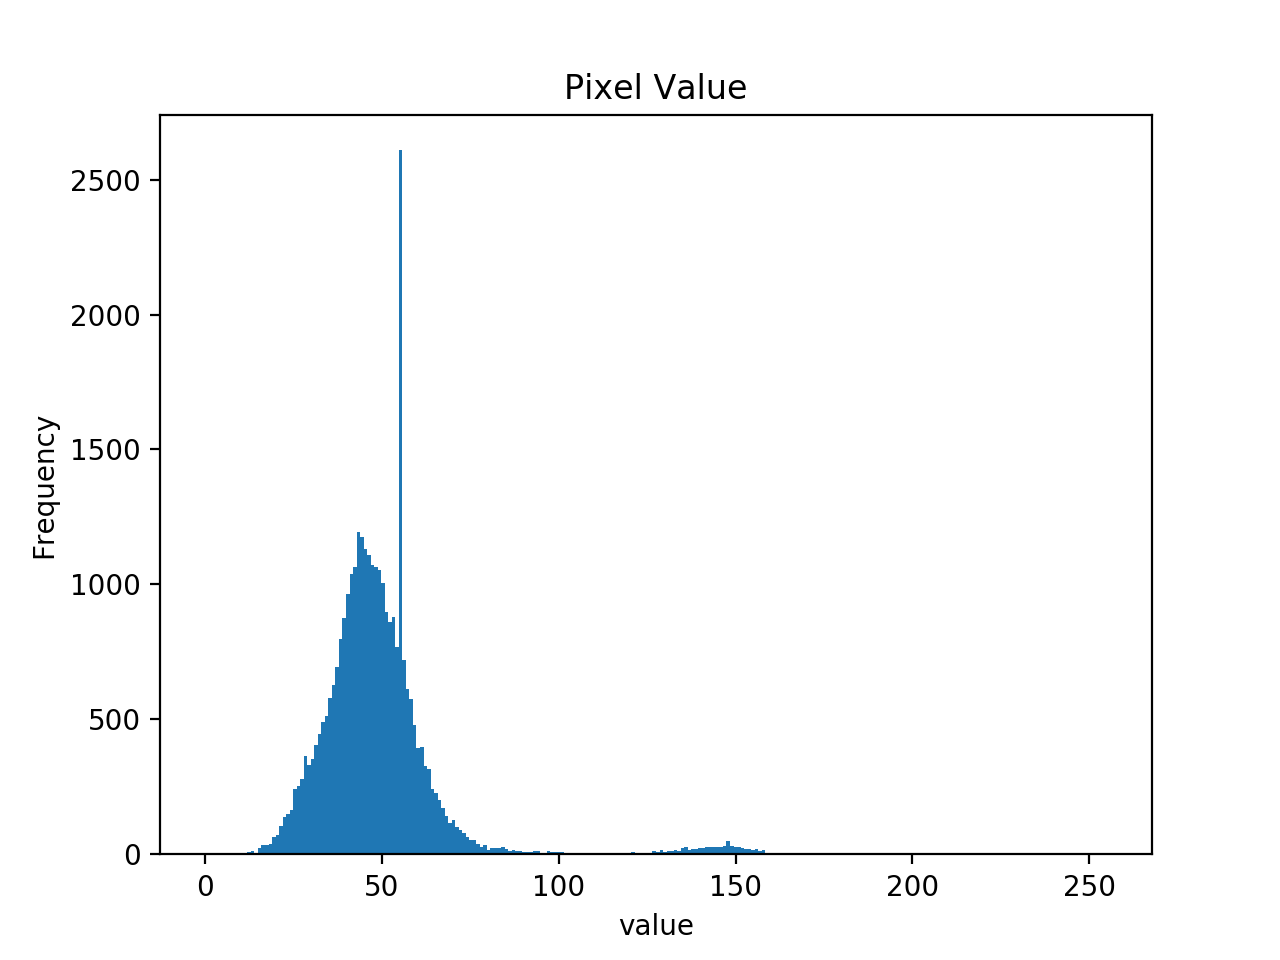
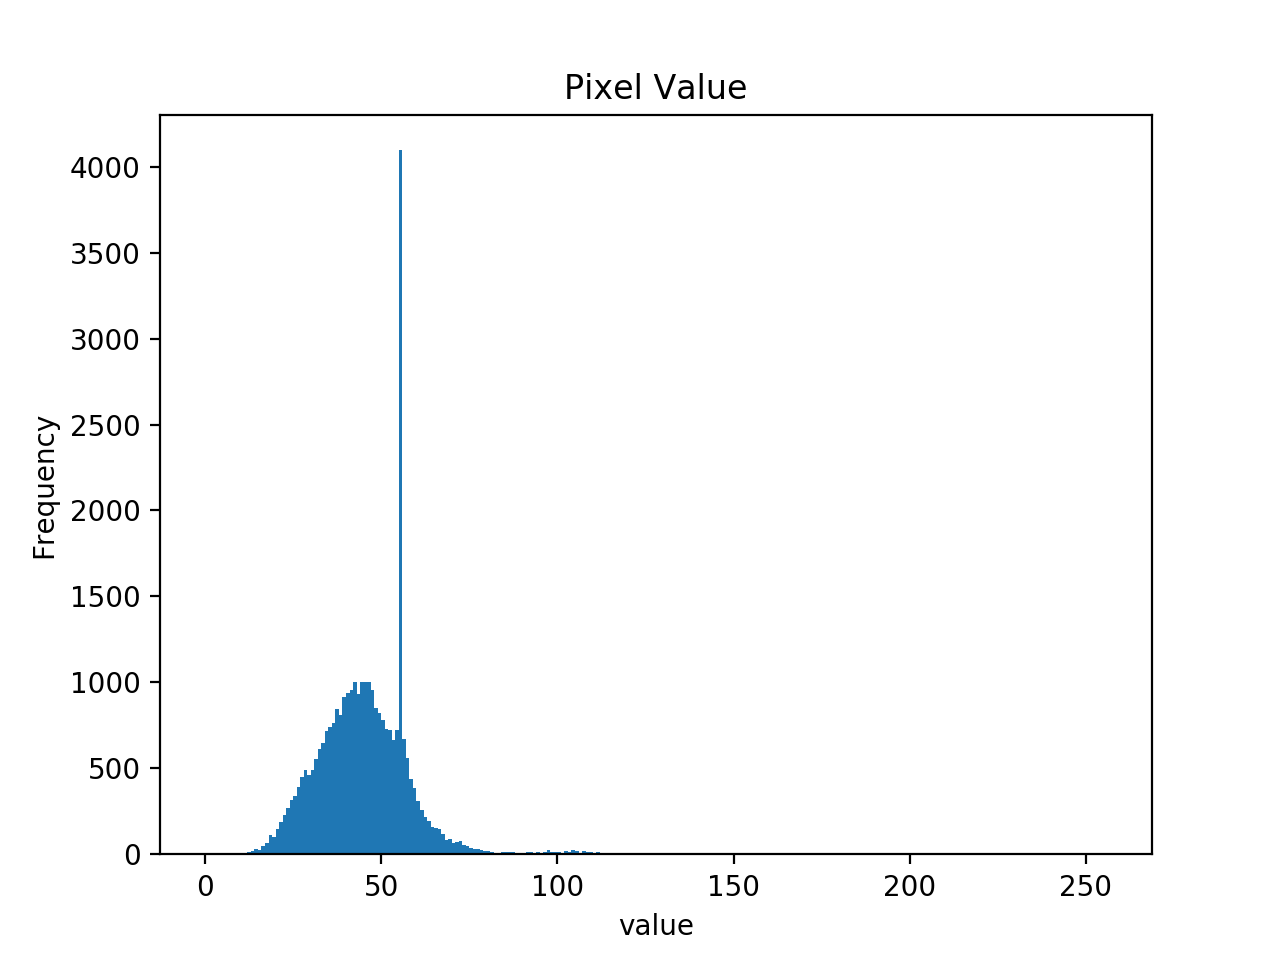
changes to the article description

diff --git a/Project/Report/chapters/implementation/basic_processing.tex b/Project/Report/chapters/implementation/basic_processing.tex
@@ -1,6 +1,6 @@
 \section{Basic Methods}
 \label{BasicM}
-In order to get some basic understanding of the methods commonly used for iris classification the work presented in an article is implemented. The work implemented is the work of \cite{Khan2017a} described in \citep{Khan2017a}. In the work visible light images of the iris obtained by smartphones are processed and used to train different classifiers. The processing consists of a sequence of steps. The steps included are
+In order to get some basic understanding of the methods commonly used for iris classification the work presented in an article is implemented. The work implemented is the work of \cite{Khan2017a} described in \citep{Khan2017a}.\todo{make sure references read right} In the work \gls{vl} images of the iris obtained by smartphones are processed and used to train different classifiers. The processing consists of a sequence of steps. The steps included are
 
 \begin{itemize}
 \item Iris Detection
@@ -11,7 +11,7 @@ In order to get some basic understanding of the methods commonly used for iris c
 \item Feature Extraction
 \item Training and Classification
 \end{itemize}
-\autoref{fig:ExWars} shows an example of an image from the database. Before the first step some simple preprocessing was done. The red channel is preserved and the other two other colour channels are neglected. This is done because this simulates the use of NIR light. The result is a greyscale image based on the red channel. In the following sections the implementation of each of the steps will be elaborated. 
+\autoref{fig:ExWars} shows an example of an image from the database. Before the first step some simple preprocessing was done. The red channel is preserved and the other two other colour channels are neglected. This is done because this simulates the use of \gls{nir} light. The result is a greyscale image based on the red channel. In the following sections the implementation of each of the steps will be elaborated. 
 
 \begin{figure}[h]
 \centering
@@ -66,8 +66,9 @@ Though the article uses several well known methods that are commonly used in pro
 Because the information about the exact approach used in the article is inadequate, an adaptive algorithm was created. The algorithm implemented identifies a threshold value based on the histogram. This is done by first identifying the highest and lowest bin-value, which has a frequency of more than a specified "recognition value", which was set to 10 in this project. The recognition value is introduced to make sure outliers are not defining for the threshold. Afterwards the threshold is calculated by the formula in \autoref{eq:pix_threshold}, where "Fraction" is a parameter set manually defining how large a part of the identified pixel value range has to me thresholded. During the processing in this project "Fraction" was set to be equal $0.1$. 
 
 \begin{equation}\label{eq:pix_threshold}
-	\text{Threshold}=(\text({owVal})+\text{Fraction}\cdot\text{higVal-lowVal}
+	\text{Threshold}=\text{Low~Value}+\text{Fraction}\cdot(\text{High~Value}-\text{Low~Value})
 \end{equation}
+
 
 After the threshold has been found it is applied to all pixels in the image. The pixels lower than the threshold are eliminated and have to be reconstructed from neighbouring pixels. Also here the article provides very limited information about the algorithm applied. Therefore an algorithm was implemented, which restores pixels from non-occluded neighbour regions. A part of the algorithm identifies the pixels with values lower than the threshold and saves the pixel coordinates of the pixels. The saved pixels are  reconstructed iteratively from neighbouring pixels following the 4-connectivity principle. The pixels are reconstructed when there are at least 2 neighbour pixels they can be reconstructed from. They are only reconstructed from pixels above the threshold, this can be pixels that initially were above the threshold, or it can be pixels that have already been reconstructed. The pixels are reconstructed by assigning the average of the neighbours with values above the threshold as the new pixel value. Once all thresholded pixels have been reconstructed the reconstructed image is returned.
 
@@ -78,34 +79,64 @@ Because the eliminated pixels are reconstructed only from pixels with a value hi
 \caption{The histogram of the image after reconstruction of pixels.}
 \label{fig:histSpill}
 \end{figure}
-As can be seen there is a peak as expected, however, there seem to be a "spill over" across the threshold to the lower values. By closer examination of the code it was discovered that this was caused due to a programming mistake. The mistake was that the values used for reconstruction were obtained from the original image and not from the reconstructed image. Once this mistake was corrected the histogram was as expected as shown in \autoref{fig:histFine}. 
+As can be seen there is a small peak as expected, however, there seem to be a "spill over" across the threshold to the lower values. By closer examination of the code it was discovered that this was caused due to a programming mistake. The mistake was that the values used for reconstruction were obtained from the original image and not from the reconstructed image. Once this mistake was corrected the histogram was as expected as shown in \autoref{fig:histFine}. 
 \begin{figure}[h]
 \centering
 \includegraphics[width=0.7\textwidth]{hist_nicespacing.png}
-\caption{The histogram of the image after applying the noise corrected remover function.}
+\caption{The histogram of the image after applying the corrected noise remover function.}
 \label{fig:histFine}
 \end{figure}
-In relation to the reconstruction of pixels it should be noted that it could have been done with 8-connectivity, and the iterative process could be split up so more steps, such that pixels are always constructed from as many neighbours as possible. This may give a better reconstruction, however, this has not been investigated. 
-\subsection{Histogram Equalisation}
-The histogram Equalisation
-
-\begin{equation}\label{eq:hist_stretch}
-	\text{New~pixelValue} (\text{pixelValue-lowVal})\cdot\frac{255}{\text{higVal-lowVal}}
-\end{equation}
-
-
+In relation to the reconstruction of pixels it should be noted that it could have been done with 8-connectivity, and the iterative process could be split up to more steps, such that pixels are always constructed from as many neighbours as possible. This may give a better reconstruction, however, this has not been investigated. 
+Furthermore, small tests showed that the adaptive threshold is difficult to define in an optimal way. If the threshold is too low the eyelash might be reconstructed from edge pixels of the eyelash creating just a lighter eyelash, which is still darker than the iris in the background. If the threshold is higher, it might eliminate the eyelashes, but also be destructive to darker parts of the iris. Maybe this could also be solved if the reconstruction happened based on the neighbourhood and not just the most adjacent neighbour pixels.
+ 
+During implementation the histograms were frequently inspected in order to ensure the results were as expected. \autoref{fig:HistEli} show a histogram with some eliminated pixel values. It turns out that the function used for generating histograms in python by default takes the range of the pixel values and splits that into as many bins as specified. As a result some of the bins cover a range of values that is entirely between two integer values and thus do not count any instances of pixel values as they are always integers between 0 and 225. This was solved by passing a specific range (0:256) as an argument and then the histogram was as described in \autoref{fig:histFine}.   
 \begin{figure}[h]
 \centering
-\includegraphics[width=0.7\textwidth]{hist_equal.png}
-\caption{The histogram of the image after applying the equalise histogram function.}
-\label{fig:histEq}
+\includegraphics[width=0.7\textwidth]{hist_troublespacing.png}
+\caption{The histogram of the reconstructed image with eliminated values.}
+\label{fig:HistEli}
+\end{figure} 
+
+\subsection{Histogram Equalisation}
+The histogram equalisation is applied to increase contrast. This is necessary to enhance the structures in the iris. This was implemented manually. Just as in the noise removal the lowest and highest bin values with more instances than a specified value are found. Based on the found values the histogram is stretched using the formula in \autoref{eq:hist_stretch}.
+\begin{equation}\label{eq:hist_stretch}
+	\text{New~Pixel~Value}=(\text{Pixel~Value}-\text{Low~Value})\cdot\frac{255}{\text{High~Value}-\text{Low~Value}}
+\end{equation}
+The pixels  resulting image can be seen in \autoref{fig:irisST}, while \autoref{fig:histST} shows the histogram after applying the formula to each pixel.
+\begin{figure}[h]
+\centering
+\includegraphics[width=\textwidth]{Stretch_iris.jpg}
+\caption{The image of the iris after applying the initial "equalise histogram" function.}
+\label{fig:irisST}
 \end{figure}
+\begin{figure}[h]
+\centering
+\includegraphics[width=0.7\textwidth]{Stretch_hist.png}
+\caption{The histogram of the image after applying the initial "equalise histogram" function.}
+\label{fig:histST}
+\end{figure}
+However, it was discovered that the implemented method was actually histogram stretching which was mistakenly taken as the same as histogram equalisation. Though the two methods have somewhat the same effects histogram equalisation is better at ensuring a uniform spreading of the pixels across the histogram. 
+This is done by identifying a transform of the bin values which causes the \gls{cdf} of the histogram to be as linear as possible, and apply it to the grey levels or bin values. The result of the histogram equalisation can be seen in \autoref{fig:irisEQ} and \autoref{fig:histEQ}.
+\begin{figure}[h]
+\centering
+\includegraphics[width=\textwidth]{Equal_iris.jpg}
+\caption{The image of the iris after applying the real equalisation of the histogram.}
+\label{fig:irisEQ}
+\end{figure}
+\begin{figure}[h]
+\centering
+\includegraphics[width=0.7\textwidth]{Equal_hist.png}
+\caption{The histogram of the image after applying the real equalisation of the histogram.}
+\label{fig:histEQ}
+\end{figure}
+When comparing the two images of the iris after applying the two different contrast adjustment methods it can be concluded that the histogram equalisation does indeed result in better contrast and a more enhanced and out spoken appearance of the structures in the iris than the histogram stretching does. Testing also showed that using the equalisation rather than the stretching increased the accuracy, however, this will be further addressed in \autoref{MachineLearnClassification}. 
 
 \subsection{Feature extraction}
 
 
 \subsection{Training and Classification}
-For classification different classifiers were tested. 
+\label{MachineLearnClassification}
+For classification different classifiers were tested. The investigated classifiers are the \gls{knn}, \gls{lda}, as well as a \gls{svm} with linear or quadratic kernel.  
 
 
 

diff --git a/Courses/Miniprojects/NSC/NSC_Faulty_2.py b/Courses/Miniprojects/NSC/NSC_Faulty_2.py
@@ -1,6 +1,7 @@
 import numpy as np
 import matplotlib.pyplot as plt
 import copy
+import cv2
 
 
 def customhist(image,numberofbins,ran):
@@ -21,7 +22,7 @@ def customhist(image,numberofbins,ran):
 def equalisehistogram(reconstructIris,LimitValue):
 
     numberOfBins=256
-    histE, bin_edgesE=customhist(reconstructIris,numberOfBins,(0,256))
+    histE,bin_edgesE=np.histogram(reconstructIris,numberOfBins,range=(0,256),density=False)
     imageDim=reconstructIris.shape
     Equalised=np.zeros(imageDim)
     lowVal = 255.0
@@ -54,11 +55,17 @@ def equalisehistogram(reconstructIris,LimitValue):
 
 
 def noiseremover(sourceimage,HistoFrac,RecognitionValue): 
-
+    reconstructIris=copy.deepcopy(sourceimage)
+    print(sourceimage[10][120])
     numberOfBins=256
-    hist, bin_edges=customhist(sourceimage,numberOfBins,(0,256))
+    hist, bin_edges=np.histogram(sourceimage,numberOfBins,range=(0,256),density=False)
     #plt.hist(sourceimage.ravel(),256)
     #plt.show()
+    plt.hist(sourceimage.ravel(),256,range=(0,256),density=False)
+    plt.title('Pixel Value')
+    plt.xlabel("value")
+    plt.ylabel("Frequency")
+    plt.show()
 
     lowVal = 255.0
     higVal = 0.0
@@ -72,7 +79,7 @@ def noiseremover(sourceimage,HistoFrac,RecognitionValue):
 
     ThresVal=lowVal+HistoFrac*(higVal-lowVal);
     print('Thres:',ThresVal)
-    reconstructIris=copy.deepcopy(sourceimage)
+    #reconstructIris=copy.deepcopy(sourceimage)
     imageDim=sourceimage.shape
     ref=np.empty(imageDim, dtype=bool)
     xCord=[]
@@ -86,6 +93,8 @@ def noiseremover(sourceimage,HistoFrac,RecognitionValue):
             else:
                 ref[h][s]=False
     processMap=copy.deepcopy(ref)
+    plt.imshow(ref,cmap="gray") #Uncomment to show final image 
+    plt.show()
     NumberofEliminations=len(xCord)
     numberofUneliminatedNeighbors=0
     pixelVal=0
@@ -98,19 +107,19 @@ def noiseremover(sourceimage,HistoFrac,RecognitionValue):
             if processMap[xCord[ii]][yCord[ii]]==True:#if the current pixel still has not been reconstructed then do reconstruction
                 if xCord[ii]-1>=0:#make sure the neighbor is within the image boundary 
                     if processMap[xCord[ii]-1][yCord[ii]] == False and sourceimage[xCord[ii]-1][yCord[ii]] is not None: #make sure the neighbor pixel is not none and does not need reconstruction.
-                        SumVal=SumVal+sourceimage[xCord[ii]-1][yCord[ii]] #contribute to current pixel reconstruction 
+                        SumVal=SumVal+reconstructIris[xCord[ii]-1][yCord[ii]] #contribute to current pixel reconstruction 
                         numberofUneliminatedNeighbors = numberofUneliminatedNeighbors+1
                 if xCord[ii]+1<imageDim[0]:#make sure the neighbor is within the image boundary
                     if processMap[xCord[ii]+1][yCord[ii]] == False and sourceimage[xCord[ii]+1][yCord[ii]] is not None: #make sure the neighbor pixel is not none and does not need reconstruction.
-                        SumVal=SumVal+sourceimage[xCord[ii]+1][yCord[ii]]
+                        SumVal=SumVal+reconstructIris[xCord[ii]+1][yCord[ii]]
                         numberofUneliminatedNeighbors = numberofUneliminatedNeighbors+1
                 if yCord[ii]-1>=0: #make sure the neighbor is within the image boundary
                     if processMap[xCord[ii]][yCord[ii]-1] == False and sourceimage[xCord[ii]][yCord[ii]-1] is not None: #make sure the neighbor pixel is not none and does not need reconstruction.
-                        SumVal=SumVal+sourceimage[xCord[ii]][yCord[ii]-1]
+                        SumVal=SumVal+reconstructIris[xCord[ii]][yCord[ii]-1]
                         numberofUneliminatedNeighbors = numberofUneliminatedNeighbors+1
                 if yCord[ii]+1<imageDim[1]:#make sure the neighbor is within the image boundary
                     if processMap[xCord[ii]][yCord[ii]+1] == False and sourceimage[xCord[ii]][yCord[ii]+1] is not None: #make sure the neighbor pixel is not none and does not need reconstruction. 
-                        SumVal=SumVal+sourceimage[xCord[ii]][yCord[ii]+1]
+                        SumVal=SumVal+reconstructIris[xCord[ii]][yCord[ii]+1]
                         numberofUneliminatedNeighbors = numberofUneliminatedNeighbors+1
                 #the numbers in the if statement below represents the number of included neighbors 
                 if numberofUneliminatedNeighbors==4 or numberofUneliminatedNeighbors==3 or numberofUneliminatedNeighbors==2:  
@@ -120,6 +129,7 @@ def noiseremover(sourceimage,HistoFrac,RecognitionValue):
                      UnprocessedPixels=UnprocessedPixels-1 #decrease the counter of pixels still to be processed
                 SumVal=0
                 numberofUneliminatedNeighbors=0
+    print(reconstructIris[10][120])
     return reconstructIris
 
 
@@ -130,18 +140,20 @@ def noiseremover(sourceimage,HistoFrac,RecognitionValue):
 ##################For Testing###########################
 if __name__ == '__main__':
 #plt.ion()#uncomment if you don't vant to plot stuff
-    F=plt.imread('/Users/Marike/Documents/MATLAB/iriscode/diagnostics/0002left_13-polar.jpg')
-    HistFrac=0.1
-    RecVal=40
+    F=plt.imread('/Users/Marike/Documents/MATLAB/iriscode/diagnostics/0001left_11-polar.jpg')
+    HistFrac=0.30
+    RecVal=50
 
-#plt.imshow(F,cmap="gray") #Uncomment to show initial image 
-#plt.show()
+plt.imshow(F,cmap="gray") #Uncomment to show initial image 
+plt.show()
 
 K=noiseremover(F,HistFrac,RecVal)
-plt.hist(K.ravel(),256,range=(0,256),density=False)
-plt.title('Pixel Value')
-plt.xlabel("value")
-plt.ylabel("Frequency")
+#plt.hist(K.ravel(),256,range=(0,256),density=False)
+#plt.hist(K.ravel(),256)
+#plt.title('Pixel Value')
+#plt.xlabel("value")
+#plt.ylabel("Frequency")
+plt.imshow(K,cmap="gray")
 plt.show()
 L=equalisehistogram(K,40)
 #plt.hist(L.ravel(),256,range=(0,256),density=False)
@@ -150,7 +162,7 @@ L=equalisehistogram(K,40)
 #plt.ylabel("Frequency")
 #plt.show()
 
-#plt.imshow(L,cmap="gray") #Uncomment to show final image 
-#plt.show()
+plt.imshow(L,cmap="gray") #Uncomment to show final image 
+plt.show()
 
 

diff --git a/Project/Report/chapters/glossary.tex b/Project/Report/chapters/glossary.tex
@@ -10,6 +10,7 @@
 %
 % \gls{key}
 
+\newacronym{cdf}{CDF}{Cumulative Distribution Function}
 \newacronym{cnn}{CNN}{Convolutional Neural Network}
 \newacronym{fcn}{FCN}{Fully Convolutional Network}
 \newacronym{dbn}{DBN}{Deep Belief Network}
@@ -25,3 +26,4 @@
 \newacronym{vl}{VL}{Visible Light}
 \newacronym{nir}{NIR}{Near Infra-Red}
 \newacronym{mcs}{MCS}{Multiple Classifier Systems}
+
